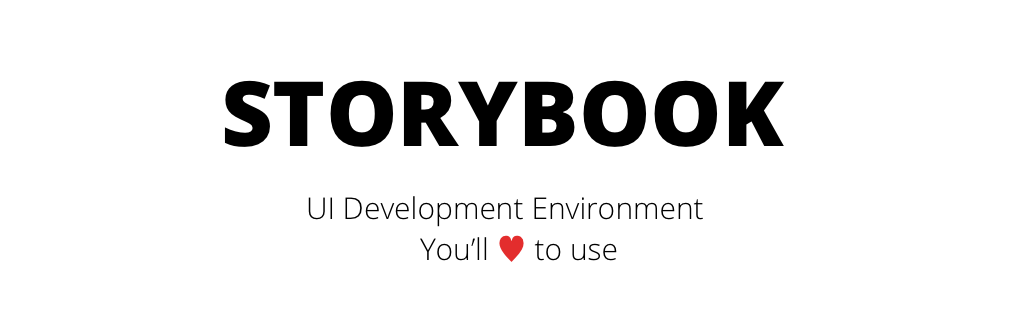
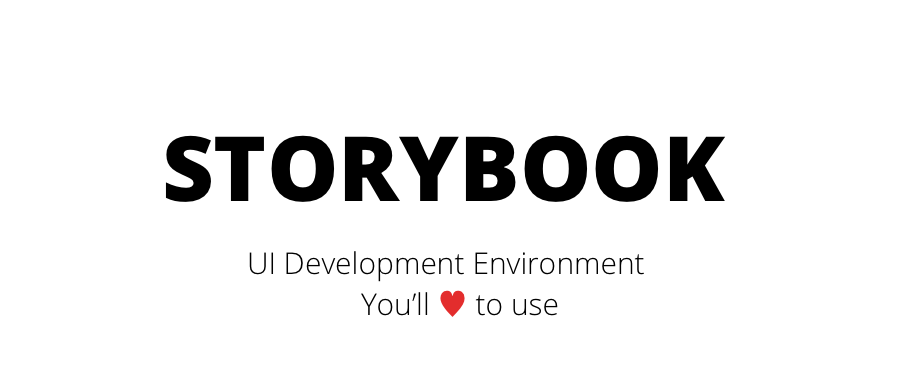
Going with CSS and Bootstrap based UI.

Changed region(s): [[0.186, 0.2417, 0.8062, 0.5438], [0.2481, 0.6042, 0.7132, 0.8157]]

diff --git a/src/components/Homepage/Header/index.js b/src/components/Homepage/Header/index.js
@@ -1,0 +1,15 @@
+import React from 'react';
+import './style.css';
+
+const Header = () => (
+  <div id="header" className="row">
+    <div id="header-title" className="pull-left">STORYBOOK</div>
+    <div id="header-links" className="pull-right">
+      <a href="/">Home</a>
+      <a href="/docs">Docs</a>
+      <a href="https://storybooks.io">Storybooks.io</a>
+    </div>
+  </div>
+);
+
+export default Header;

diff --git a/src/index.css b/src/index.css
@@ -1,4 +1,18 @@
-body {
-  margin: 0;
-  padding: 0;
+@import 'https://fonts.googleapis.com/css?family=Open+Sans:300,400,600,800';
+
+body, div, p, ul, li, a {
+  font-family: 'Open Sans', sans-serif;
+  font-size: 14px;
+}
+
+a,
+a:visited,
+a:hover,
+a:active {
+  text-decoration: none;
+  color: #000;
+}
+
+a:hover {
+  opacity: 0.7;
 }

diff --git a/src/stories/with_design.js b/src/stories/with_design.js
@@ -5,6 +5,8 @@ const { localStorage } = window;
 const styles = {
   toolbar: {
     marginBottom: 10,
+    fontSize: 11,
+    fontFamily: '-apple-system, ".SFNSText-Regular", "San Francisco", Roboto, "Segoe UI", "Helvetica Neue", "Lucida Grande", sans-serif',
   },
 
   toolbarButton: {

diff --git a/src/index.js b/src/index.js
@@ -3,6 +3,7 @@ import ReactDOM from 'react-dom';
 import Homepage from './components/Homepage';
 import Docs from './containers/Docs';
 import { Router, Route, browserHistory } from 'react-router';
+import 'bootstrap/dist/css/bootstrap.css';
 import './index.css';
 
 ReactDOM.render(

diff --git a/src/stories/implementations.js b/src/stories/implementations.js
@@ -1,8 +1,12 @@
 import React from 'react';
 import Homepage from '../components/Homepage';
+import Header from '../components/Homepage/Header';
 
 export default {
   'Homepage.page': (
     <Homepage />
+  ),
+  'Homepage.header': (
+    <Header />
   ),
 };

diff --git a/src/components/Homepage/index.js b/src/components/Homepage/index.js
@@ -1,8 +1,10 @@
 import React from 'react';
+import './style.css';
+import Header from './Header';
 
 const Homepage = () => (
-  <div>
-
+  <div className="container">
+    <Header />
   </div>
 );
 

diff --git a/src/components/Homepage/Header/style.css b/src/components/Homepage/Header/style.css
@@ -1,0 +1,12 @@
+#header {
+  margin: 50px 0;
+}
+
+#header-title {
+  font-weight: 800;
+}
+
+#header-links a {
+  padding-left: 10px;
+  text-transform: uppercase;
+}

diff --git a/.storybook/config.js b/.storybook/config.js
@@ -1,4 +1,5 @@
 import { configure } from '@kadira/storybook';
+import 'bootstrap/dist/css/bootstrap.css';
 import '../src/index.css';
 
 function loadStories() {
